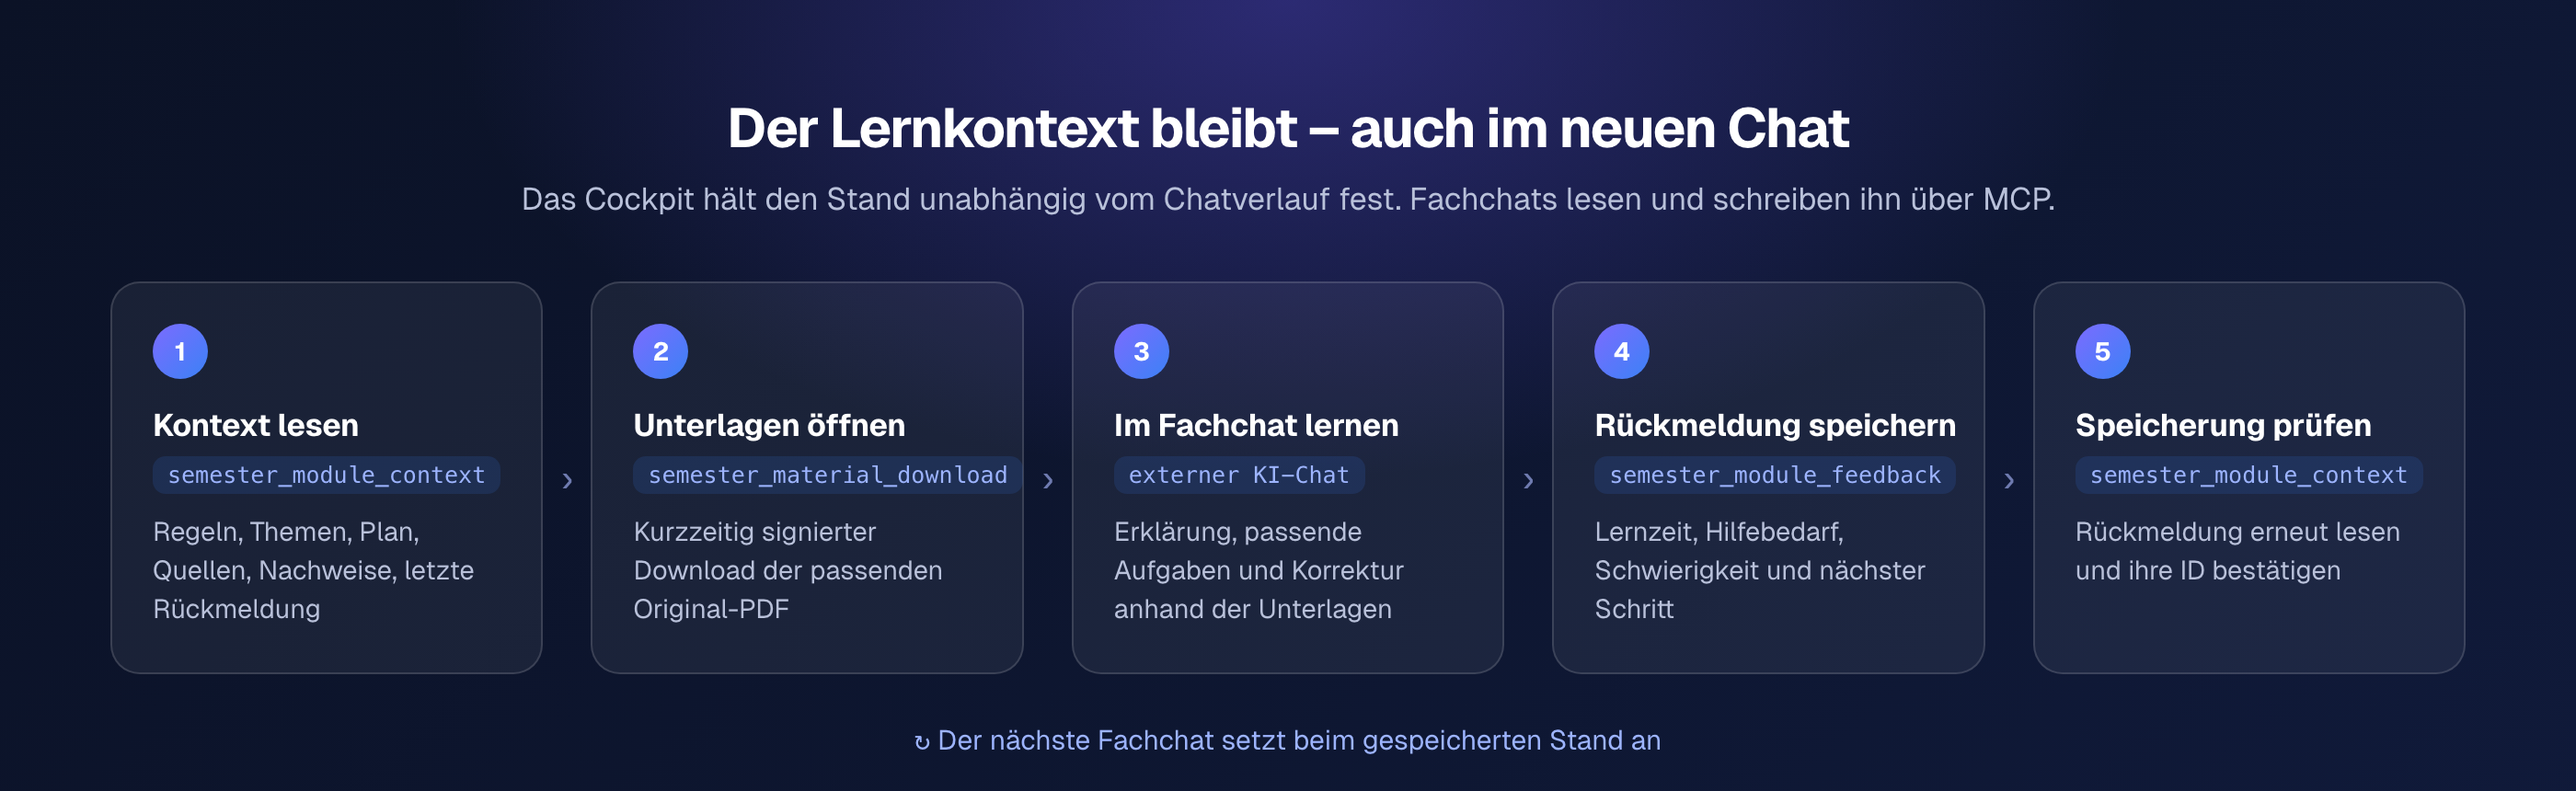
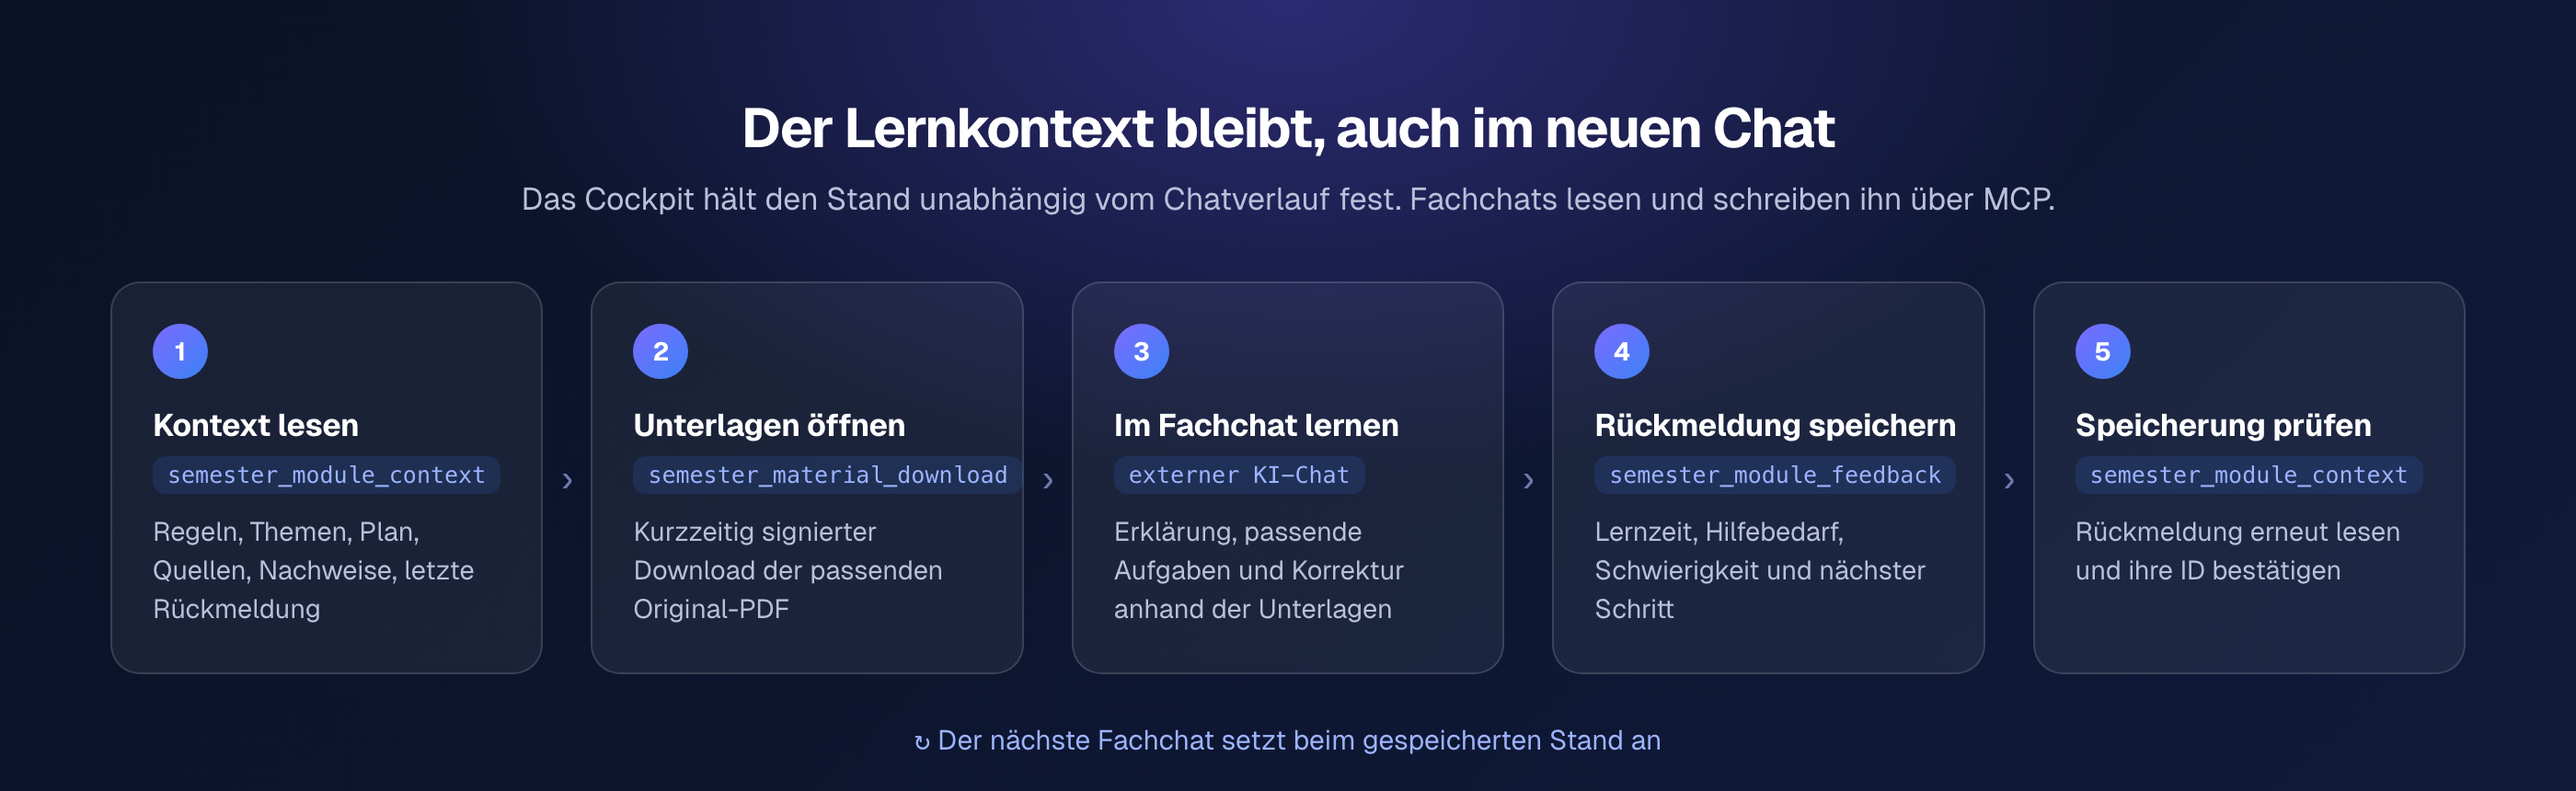
docs: polish README visuals and remove dash separators (#7)
Rework the hero banner so the desktop and phone previews are fully
visible, and replace dash separators in image and README text.

Changed region(s): [[0.2796, 0.1209, 0.7146, 0.2116]]

diff --git a/README.md b/README.md
@@ -7,8 +7,8 @@
 
 ### Klarheit für dein Semester.
 
-Lernplanung, Themen und Fortschritt an einem Ort –<br>
-mit einem dauerhaften Gedächtnis für deine KI-Fachchats.
+Lernplanung, Themen und Fortschritt an einem Ort.<br>
+Dazu ein dauerhaftes Gedächtnis für deine KI-Fachchats.
 
 ![Next.js](https://img.shields.io/badge/Next.js_16-000000?logo=nextdotjs&logoColor=white)
 ![React](https://img.shields.io/badge/React_19-149ECA?logo=react&logoColor=white)
